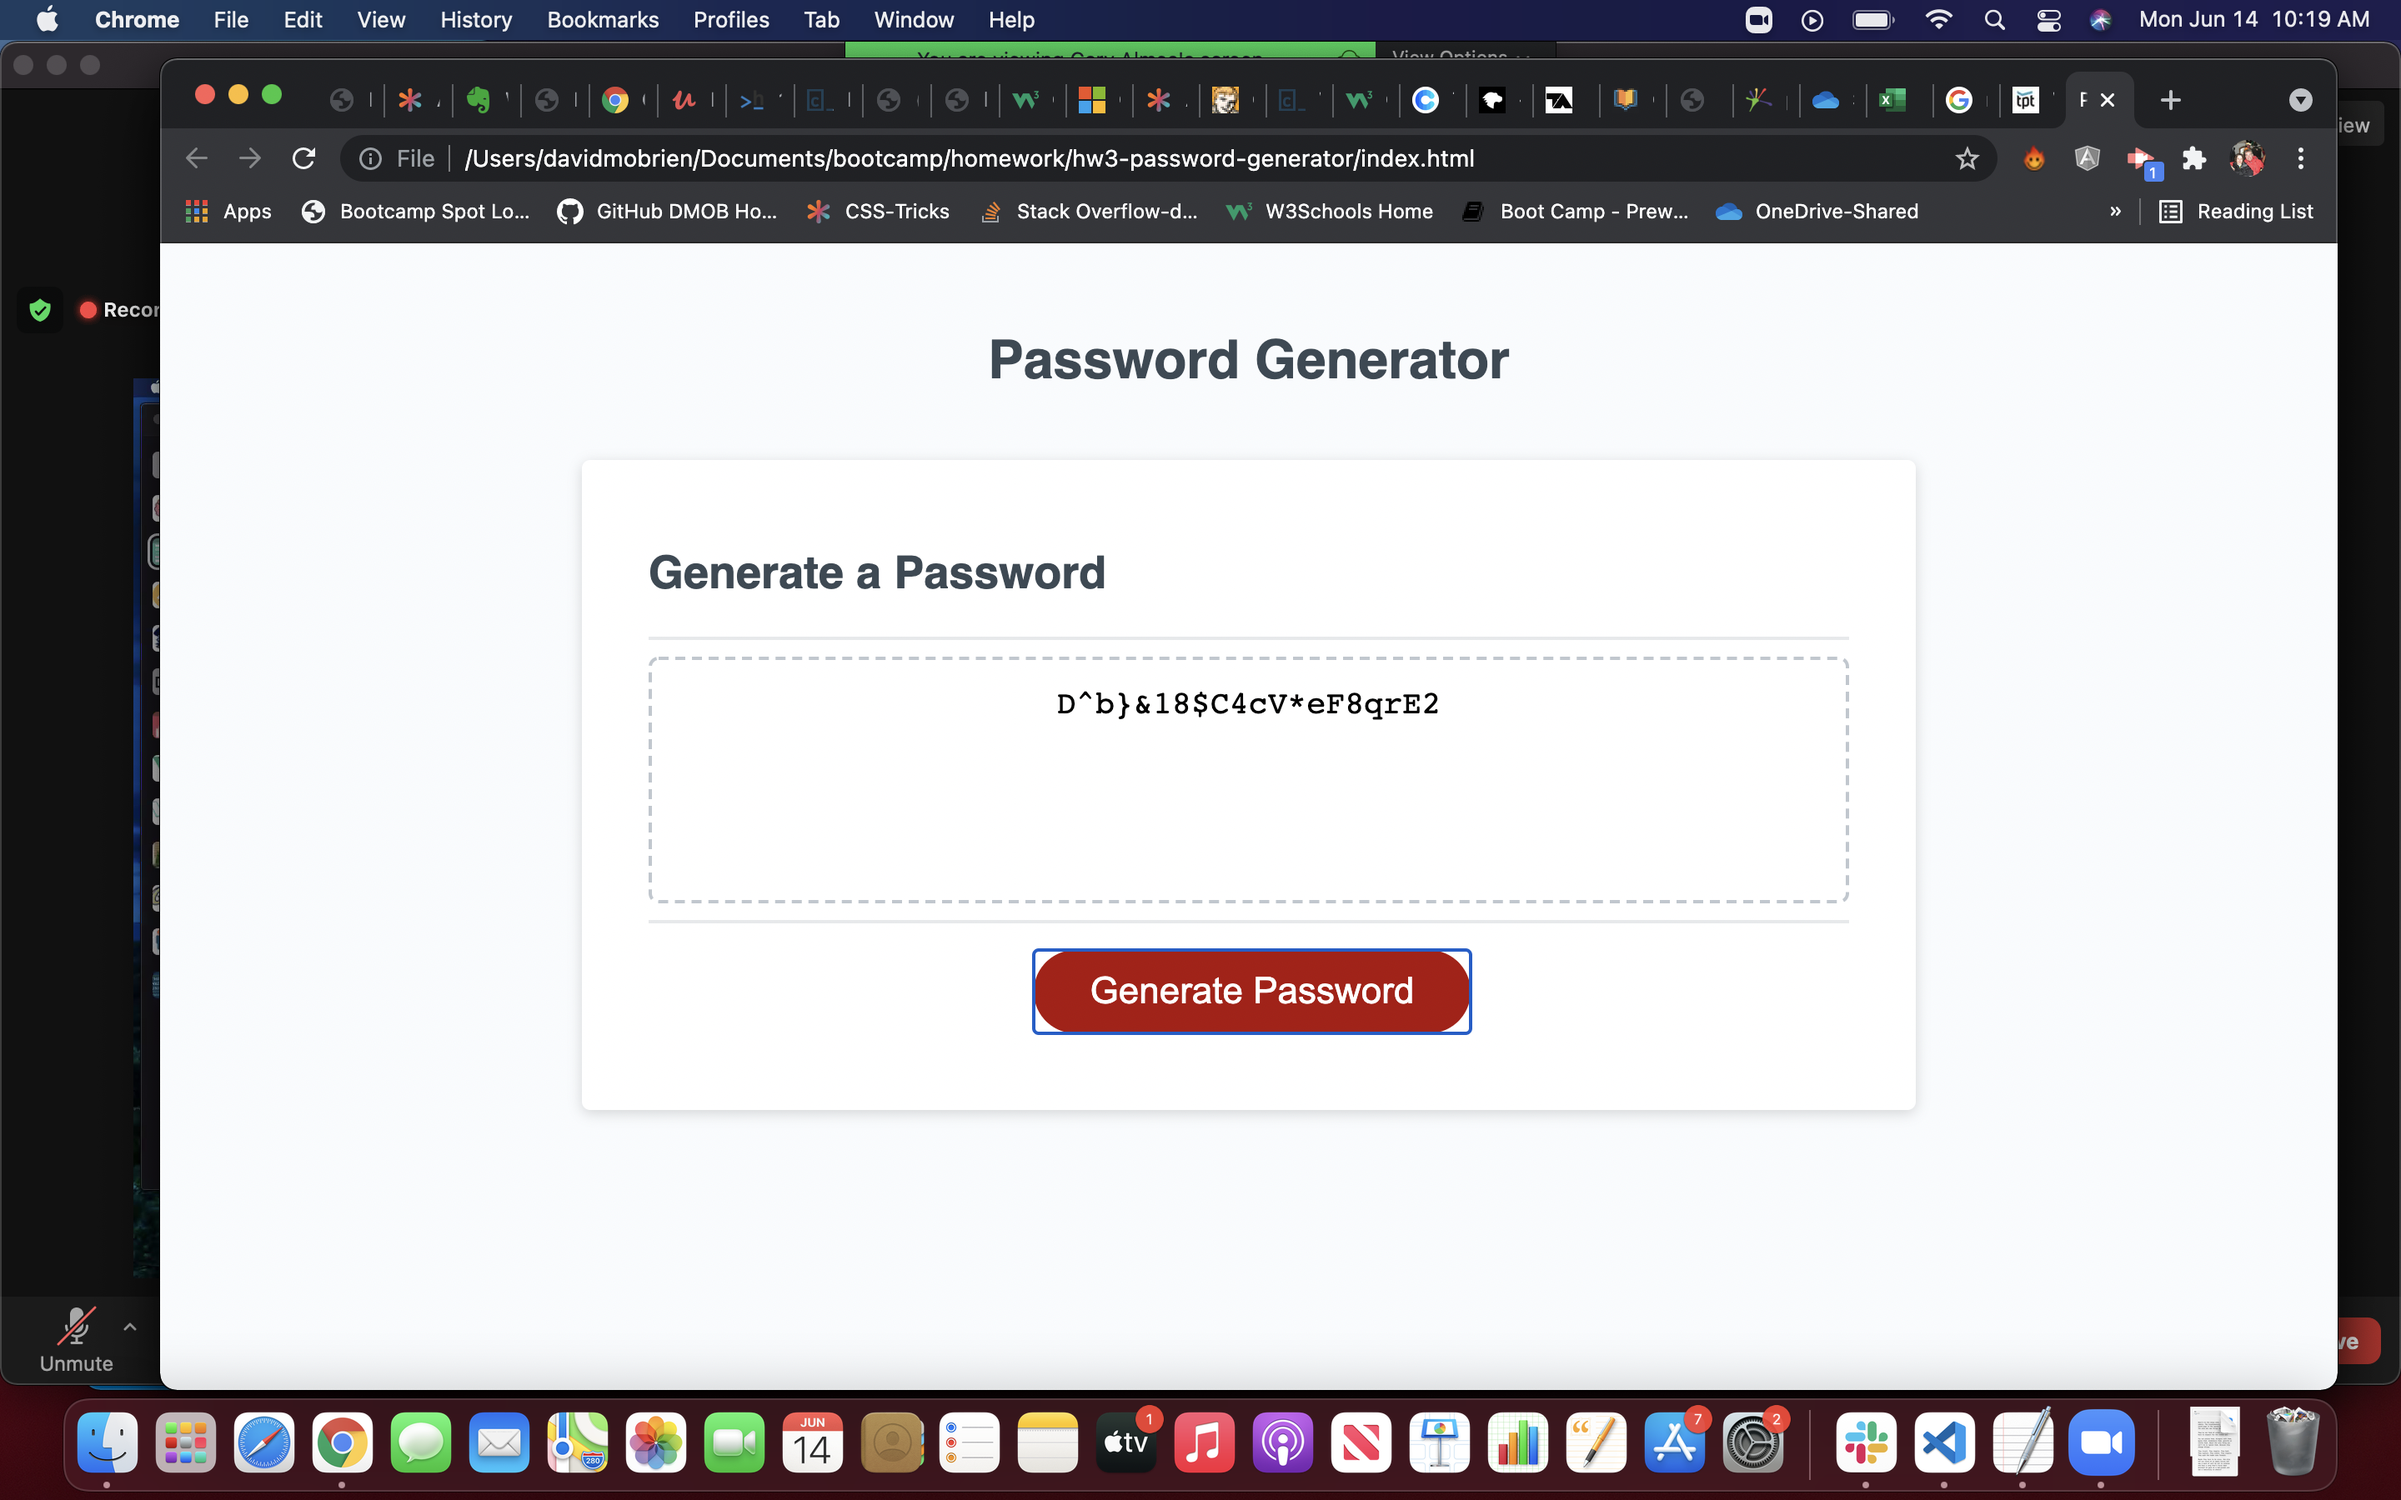
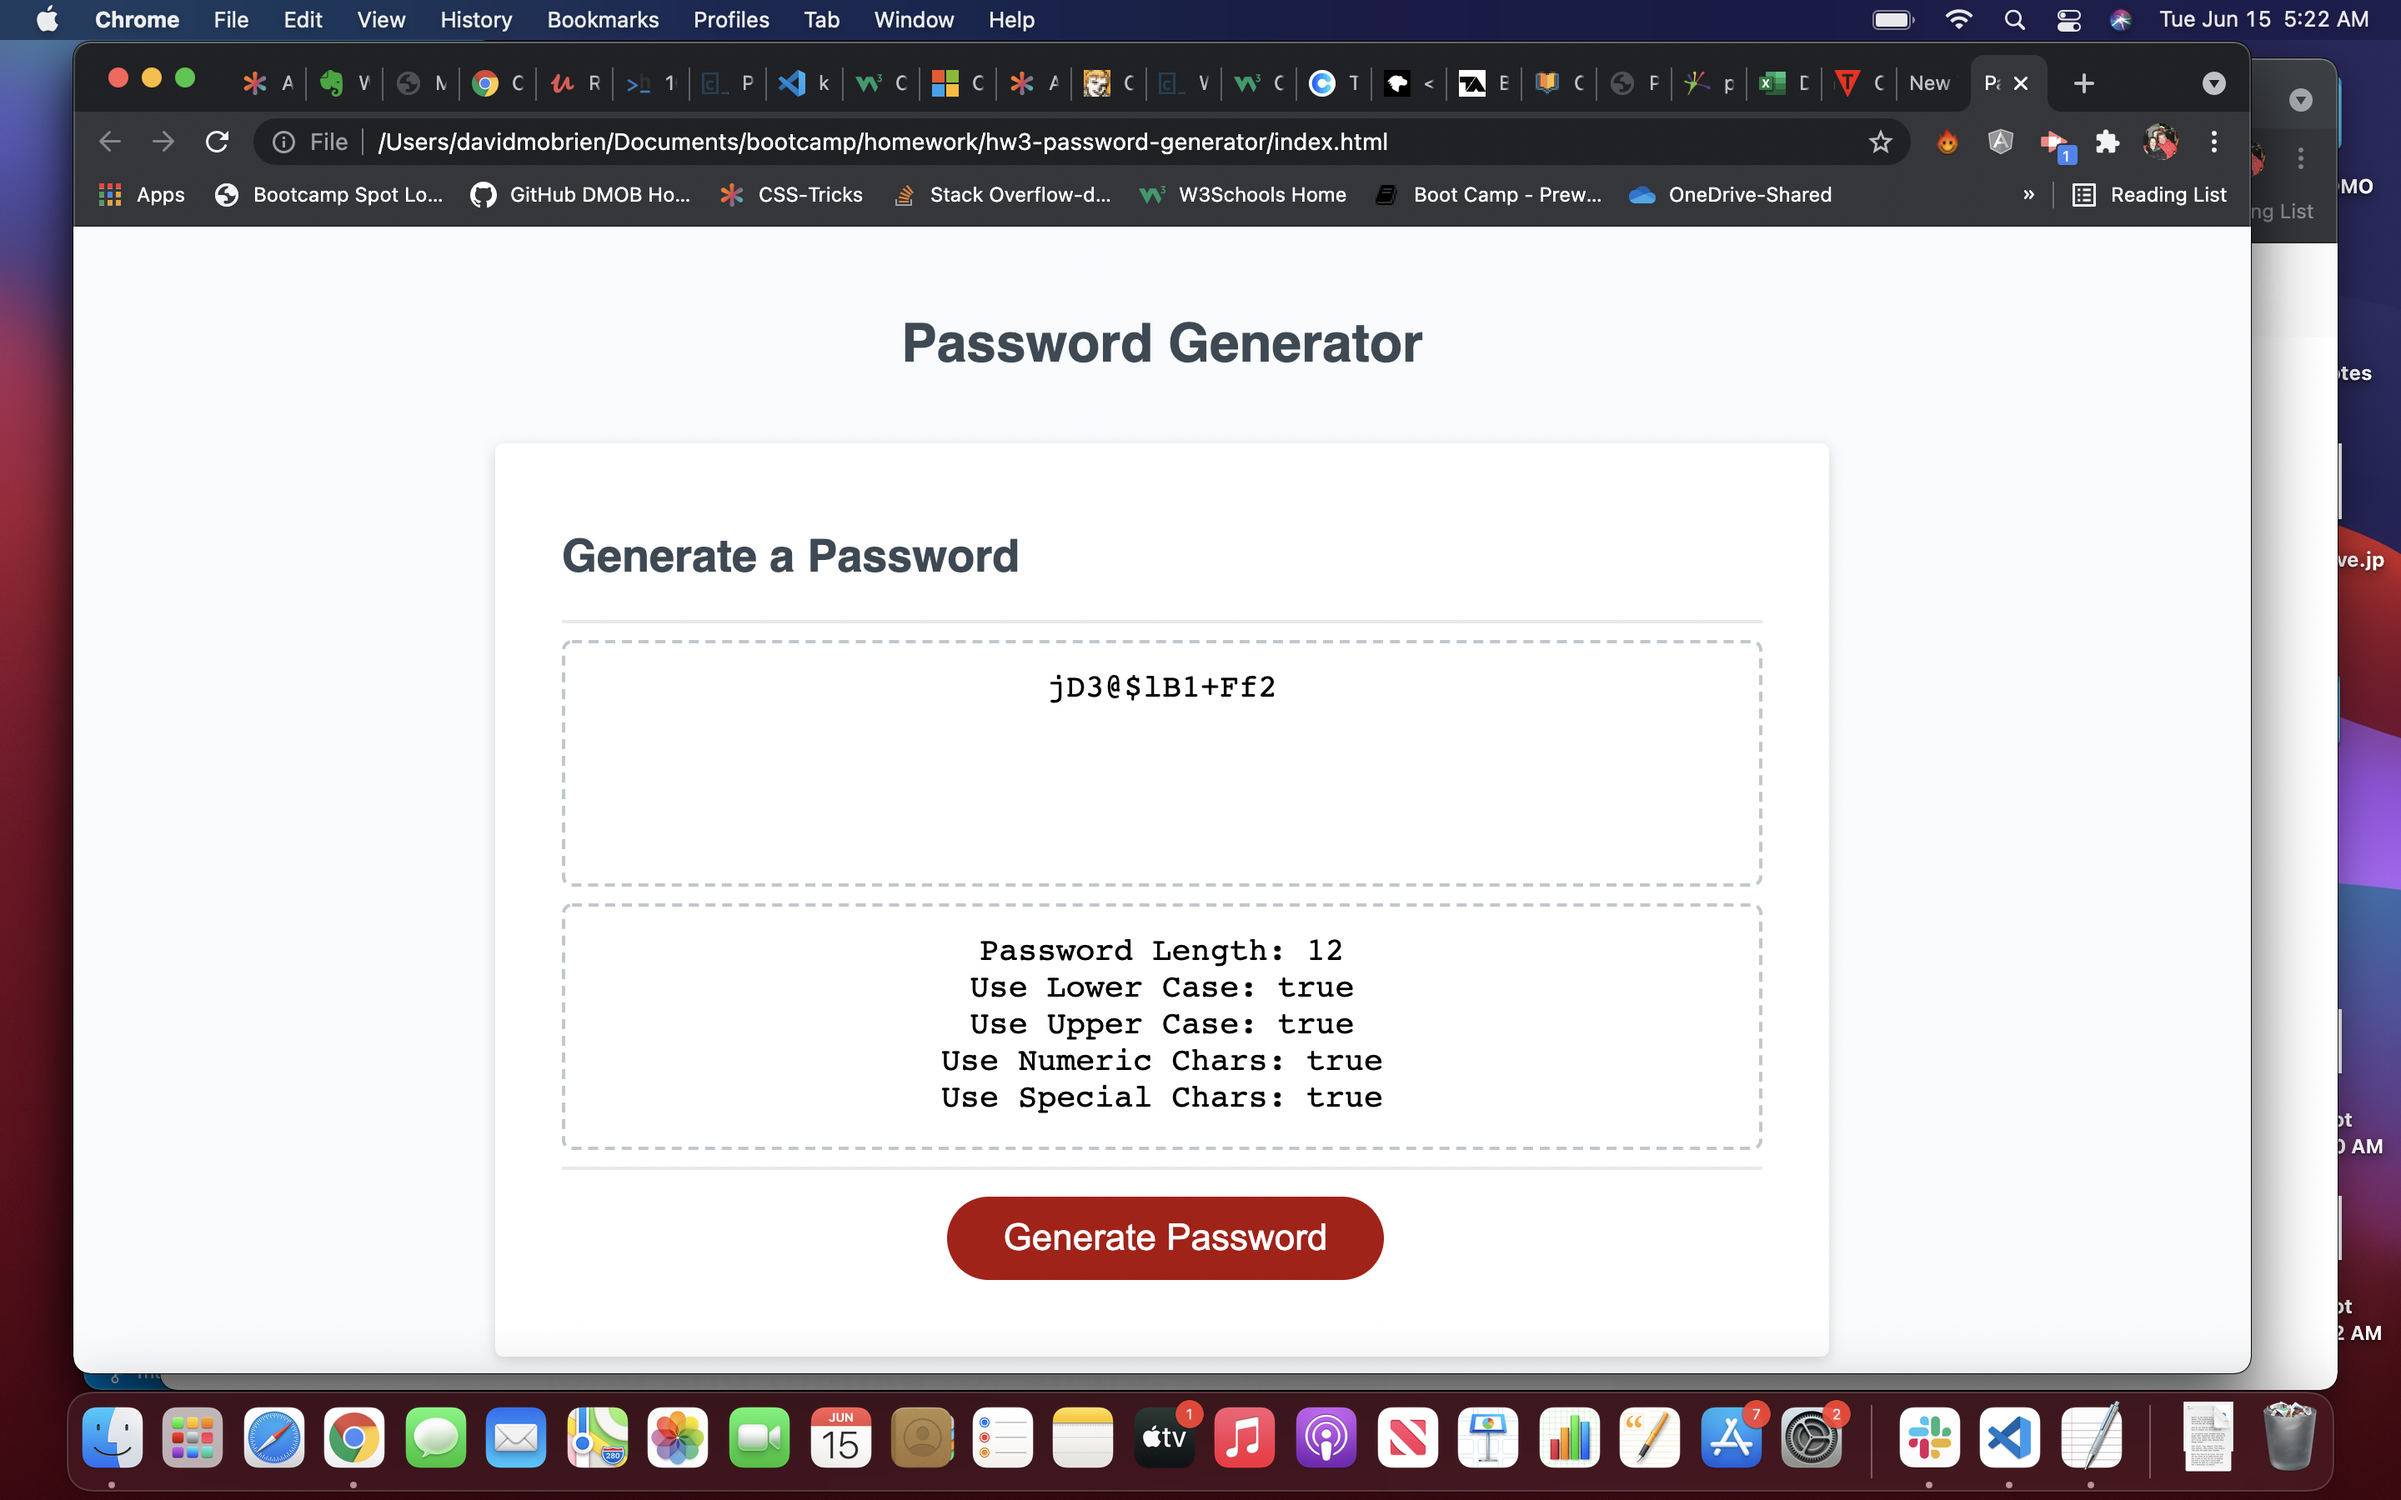
Added bonus output for pwd validation, updated README

diff --git a/README.md b/README.md
@@ -12,7 +12,8 @@
 ### David OBrien's Password Generator
 
 Web based password generator application allows user to input length and char types
-they would like included in their emitted password.
+they would like included in their emitted password. Also displays inputs after password
+is generated to facilitate validating output.
 
 ### Screenshot
 ![Image text](./assets/images/finished-screenshot.png)
